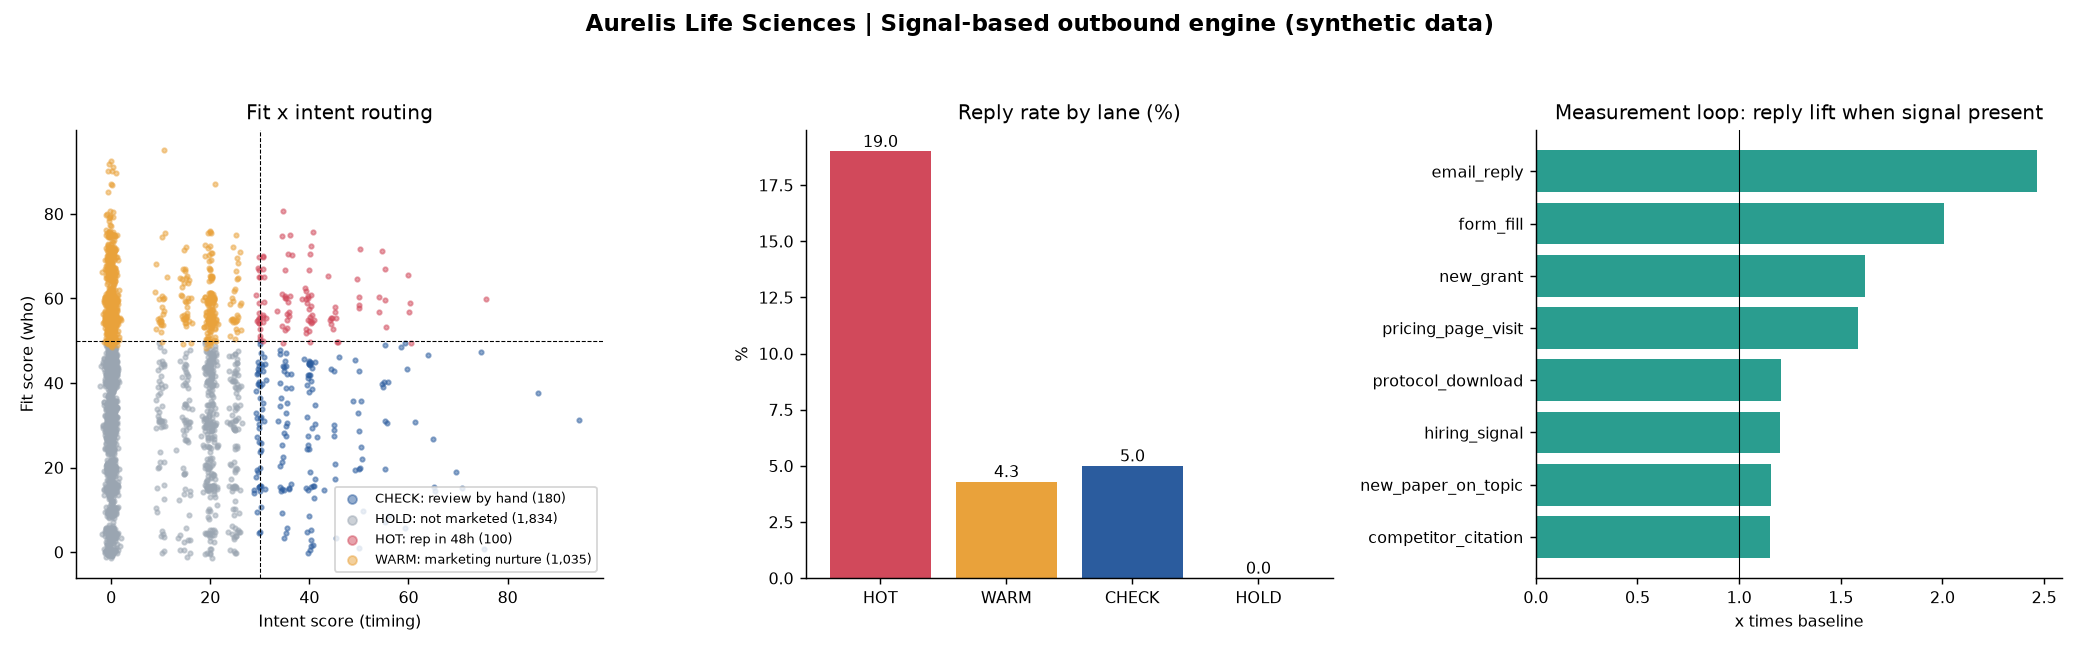
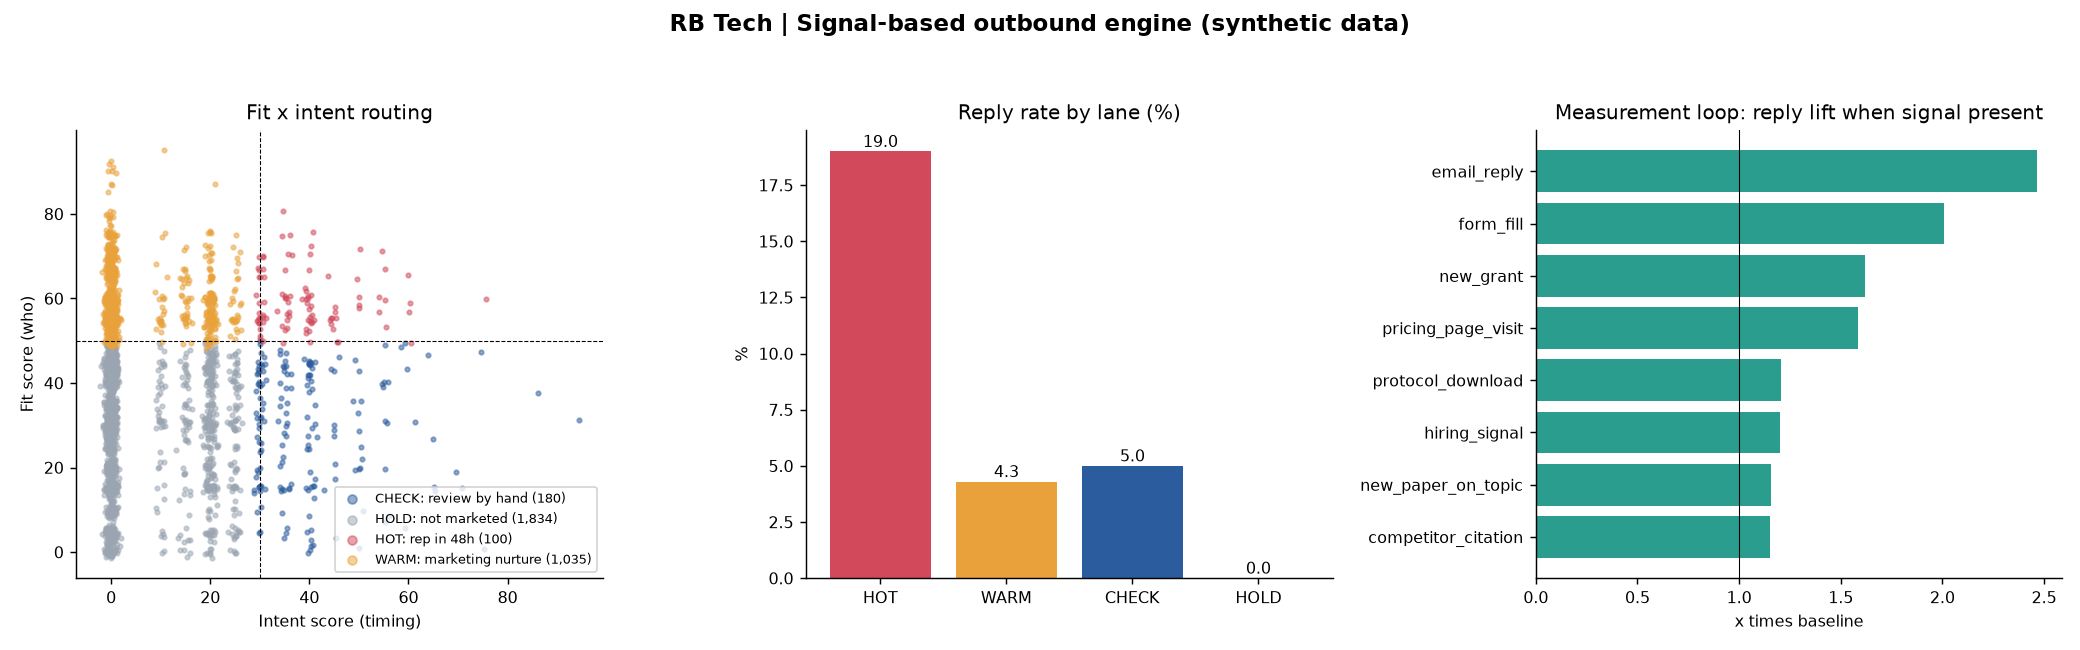
Rename fictional company to RB Tech; regenerate charts

Changed region(s): [[0.2812, 0.0, 0.7188, 0.0615]]

diff --git a/06-tool-stack/scripts/tool_stack.py b/06-tool-stack/scripts/tool_stack.py
@@ -1,4 +1,4 @@
-"""GTM tool stack evaluation with weighted scoring and staged spend gates (fictional Aurelis Life Sciences).
+"""GTM tool stack evaluation with weighted scoring and staged spend gates (fictional RB Tech).
 
 Tools are generic categories with invented prices. The method: score each option against weighted criteria,
 adopt only what solves a measured bottleneck, and release spend in stages behind gates.
@@ -67,7 +67,7 @@ plt.rcParams.update({"font.size": 9, "axes.spines.top": False, "axes.spines.righ
 BLUE, TEAL, GOLD, RED, GREY = "#2B5C9E", "#2A9D8F", "#E9A23B", "#D1495B", "#9AA5B1"
 COL = {"Stage 1: Prove": TEAL, "Stage 2: Scale data": GOLD, "Stage 3: Target system": BLUE, "Not recommended": GREY}
 fig, ax = plt.subplots(1, 3, figsize=(17, 5.2))
-fig.suptitle("Aurelis Life Sciences | GTM tool stack (synthetic data)", fontsize=13, weight="bold")
+fig.suptitle("RB Tech | GTM tool stack (synthetic data)", fontsize=13, weight="bold")
 d = df.sort_values("weighted_score")
 ax[0].barh([t[:42] for t in d.tool], d.weighted_score, color=[COL[s] for s in d.stage])
 ax[0].set(title="Weighted score (0-100)", xlabel="score")

diff --git a/01-outbound-gtm-engine/scripts/score_and_route.py b/01-outbound-gtm-engine/scripts/score_and_route.py
@@ -1,6 +1,6 @@
 """Synthetic fit x intent scoring and routing for a signal-based outbound GTM engine.
 
-Company is fictional (Aurelis Life Sciences). All contacts, signals and outcomes are invented.
+Company is fictional (RB Tech). All contacts, signals and outcomes are invented.
 Run:  python scripts/score_and_route.py     (writes data/*.csv and charts/*.png)
 Needs: pandas, numpy, matplotlib
 """
@@ -116,7 +116,7 @@ plt.rcParams.update({"font.size": 9, "axes.spines.top": False, "axes.spines.righ
 COL = {"HOT: rep in 48h": "#D1495B", "WARM: marketing nurture": "#E9A23B",
        "CHECK: review by hand": "#2B5C9E", "HOLD: not marketed": "#9AA5B1"}
 fig, ax = plt.subplots(1, 3, figsize=(16, 5))
-fig.suptitle("Aurelis Life Sciences | Signal-based outbound engine (synthetic data)", fontsize=13, weight="bold")
+fig.suptitle("RB Tech | Signal-based outbound engine (synthetic data)", fontsize=13, weight="bold")
 for name, g in active.groupby("lane"):
     ax[0].scatter(g.intent_score + rng.normal(0, .6, len(g)), g.fit_score + rng.normal(0, .6, len(g)),
                   s=6, alpha=.5, color=COL[name], label=f"{name} ({len(g):,})")

diff --git a/02-lead-scoring-redesign/scripts/scoring_backtest.py b/02-lead-scoring-redesign/scripts/scoring_backtest.py
@@ -1,6 +1,6 @@
 """Back-test an engagement-only lead score against a fit + engagement + intent score (synthetic).
 
-Fictional company Aurelis Life Sciences; contacts, behaviour and outcomes are simulated.
+Fictional company RB Tech; contacts, behaviour and outcomes are simulated.
 Questions answered:
   1. Does the old engagement-only score (MQL >= 15, SQL >= 30) predict who buys?
   2. Does a fit + engagement + intent score (0-100, split 55 / 25 / 20) do better?
@@ -133,7 +133,7 @@ pd.Series({"contacts": N, "buyers": total_buyers, "auc_old": round(auc_old, 3), 
 plt.rcParams.update({"font.size": 9, "axes.spines.top": False, "axes.spines.right": False})
 BLUE, TEAL, GOLD, RED, GREY = "#2B5C9E", "#2A9D8F", "#E9A23B", "#D1495B", "#9AA5B1"
 fig, ax = plt.subplots(1, 4, figsize=(19, 4.8))
-fig.suptitle("Aurelis Life Sciences | Lead score back-test (synthetic data)", fontsize=13, weight="bold")
+fig.suptitle("RB Tech | Lead score back-test (synthetic data)", fontsize=13, weight="bold")
 
 def roc(score, y):
     o = np.argsort(-score)

diff --git a/03-icp-and-nurture/scripts/icp_and_nurture.py b/03-icp-and-nurture/scripts/icp_and_nurture.py
@@ -1,4 +1,4 @@
-"""Build ICP cards from synthetic won/lost deals and simulate nurture tracks (fictional Aurelis Life Sciences).
+"""Build ICP cards from synthetic won/lost deals and simulate nurture tracks (fictional RB Tech).
 
 1. Profile 360 closed deals by segment, role, organisation size and product to find who buys.
 2. Turn the pattern into ICP cards and account tiers (A / B / C).
@@ -108,7 +108,7 @@ print(pd.DataFrame(cards).to_string(index=False))
 plt.rcParams.update({"font.size": 9, "axes.spines.top": False, "axes.spines.right": False})
 BLUE, TEAL, GOLD, RED, GREY = "#2B5C9E", "#2A9D8F", "#E9A23B", "#D1495B", "#9AA5B1"
 fig, ax = plt.subplots(1, 4, figsize=(19, 4.8))
-fig.suptitle("Aurelis Life Sciences | ICP and nurture (synthetic data)", fontsize=13, weight="bold")
+fig.suptitle("RB Tech | ICP and nurture (synthetic data)", fontsize=13, weight="bold")
 s = seg_t.sort_values("win_rate")
 ax[0].barh([x[:28] for x in s.index], s.win_rate * 100, color=BLUE)
 ax[0].axvline(d.won.mean() * 100, color="k", ls="--", lw=.8)

diff --git a/04-net-new-lead-gen-pilot/scripts/pilot_model.py b/04-net-new-lead-gen-pilot/scripts/pilot_model.py
@@ -1,4 +1,4 @@
-"""Net-new lead generation pilot: suppress first, tier first, enrich last (fictional Aurelis Life Sciences).
+"""Net-new lead generation pilot: suppress first, tier first, enrich last (fictional RB Tech).
 
 Compares two ways to spend a fixed enrichment credit budget on 3,000 candidate contacts:
   A. "Enrich everything, filter later"
@@ -121,7 +121,7 @@ test.to_csv(DATA / "action_costs.csv", index=False)
 plt.rcParams.update({"font.size": 9, "axes.spines.top": False, "axes.spines.right": False})
 BLUE, TEAL, GOLD, RED, GREY = "#2B5C9E", "#2A9D8F", "#E9A23B", "#D1495B", "#9AA5B1"
 fig, ax = plt.subplots(1, 4, figsize=(19, 4.8))
-fig.suptitle("Aurelis Life Sciences | Net-new lead generation pilot (synthetic data)", fontsize=13, weight="bold")
+fig.suptitle("RB Tech | Net-new lead generation pilot (synthetic data)", fontsize=13, weight="bold")
 ax[0].barh(wf.step[::-1], wf.contacts[::-1], color=BLUE)
 ax[0].set(title="Pilot funnel: suppress first", xlabel="contacts")
 ax[0].tick_params(axis="y", labelsize=7)

diff --git a/05-sequence-discipline/scripts/sequence_sim.py b/05-sequence-discipline/scripts/sequence_sim.py
@@ -1,4 +1,4 @@
-"""Sequence discipline: mass enrollment vs paced, signal-based sending (fictional Aurelis Life Sciences).
+"""Sequence discipline: mass enrollment vs paced, signal-based sending (fictional RB Tech).
 
 Simulates a 3-step email sequence under two operating styles and applies the stop rule
 (pause if the reply rate is under 1% after about 500 sends). All numbers are synthetic.
@@ -80,7 +80,7 @@ print(tab.to_string(index=False))
 plt.rcParams.update({"font.size": 9, "axes.spines.top": False, "axes.spines.right": False})
 BLUE, TEAL, GOLD, RED, GREY = "#2B5C9E", "#2A9D8F", "#E9A23B", "#D1495B", "#9AA5B1"
 fig, ax = plt.subplots(1, 4, figsize=(19, 4.8))
-fig.suptitle("Aurelis Life Sciences | Sequence discipline (synthetic data)", fontsize=13, weight="bold")
+fig.suptitle("RB Tech | Sequence discipline (synthetic data)", fontsize=13, weight="bold")
 for df, c, lab in ((bulk, RED, "Bulk"), (paced, TEAL, "Paced, targeted")):
     ax[0].plot(df.day, df.cum_sends, color=c, label=lab)
 ax[0].legend(fontsize=8)

diff --git a/README.md b/README.md
@@ -1,6 +1,6 @@
 # GTM Strategy
 
-Go-to-market work rebuilt on **synthetic data** for a fictional life-science tools company, **Aurelis Life Sciences**. Methods come from real commercial-operations work; no real contacts, customers, prices or company data appear here.
+Go-to-market work rebuilt on **synthetic data** for a fictional life-science tools company, **RB Tech**. Methods come from real commercial-operations work; no real contacts, customers, prices or company data appear here.
 
 By [Rishabh Banola](https://github.com/rbanola1) · see also [RevOps-Portfolio](https://github.com/rbanola1/RevOps-Portfolio).
 

diff --git a/06-tool-stack/README.md b/06-tool-stack/README.md
@@ -1,6 +1,6 @@
 # 06 | GTM Tool Stack: Evaluate, Gate, Then Scale
 
-**Fictional company:** Aurelis Life Sciences · **All data is synthetic** · Prices are invented, tools shown by category
+**Fictional company:** RB Tech · **All data is synthetic** · Prices are invented, tools shown by category
 
 ![Tool stack](charts/tool_stack.png)
 

diff --git a/04-net-new-lead-gen-pilot/README.md b/04-net-new-lead-gen-pilot/README.md
@@ -1,6 +1,6 @@
 # 04 | Net-New Lead Generation Pilot: Suppress First, Tier First, Enrich Last
 
-**Fictional company:** Aurelis Life Sciences · **All data is synthetic**
+**Fictional company:** RB Tech · **All data is synthetic**
 
 ![Pilot overview](charts/pilot_overview.png)
 

diff --git a/02-lead-scoring-redesign/README.md b/02-lead-scoring-redesign/README.md
@@ -1,6 +1,6 @@
 # 02 | Lead Scoring Redesign: From Engagement-Only to Buy-Readiness
 
-**Fictional company:** Aurelis Life Sciences · **All data is synthetic**
+**Fictional company:** RB Tech · **All data is synthetic**
 
 ![Scoring back-test](charts/scoring_backtest.png)
 

diff --git a/05-sequence-discipline/README.md b/05-sequence-discipline/README.md
@@ -1,6 +1,6 @@
 # 05 | Sequence Design and Send Discipline
 
-**Fictional company:** Aurelis Life Sciences · **All data is synthetic**
+**Fictional company:** RB Tech · **All data is synthetic**
 
 ![Sequence discipline](charts/sequence_discipline.png)
 

diff --git a/03-icp-and-nurture/README.md b/03-icp-and-nurture/README.md
@@ -1,6 +1,6 @@
 # 03 | ICP, Account Tiers and Nurture Tracks
 
-**Fictional company:** Aurelis Life Sciences · **All data is synthetic**
+**Fictional company:** RB Tech · **All data is synthetic**
 
 ![ICP and nurture](charts/icp_nurture_overview.png)
 
